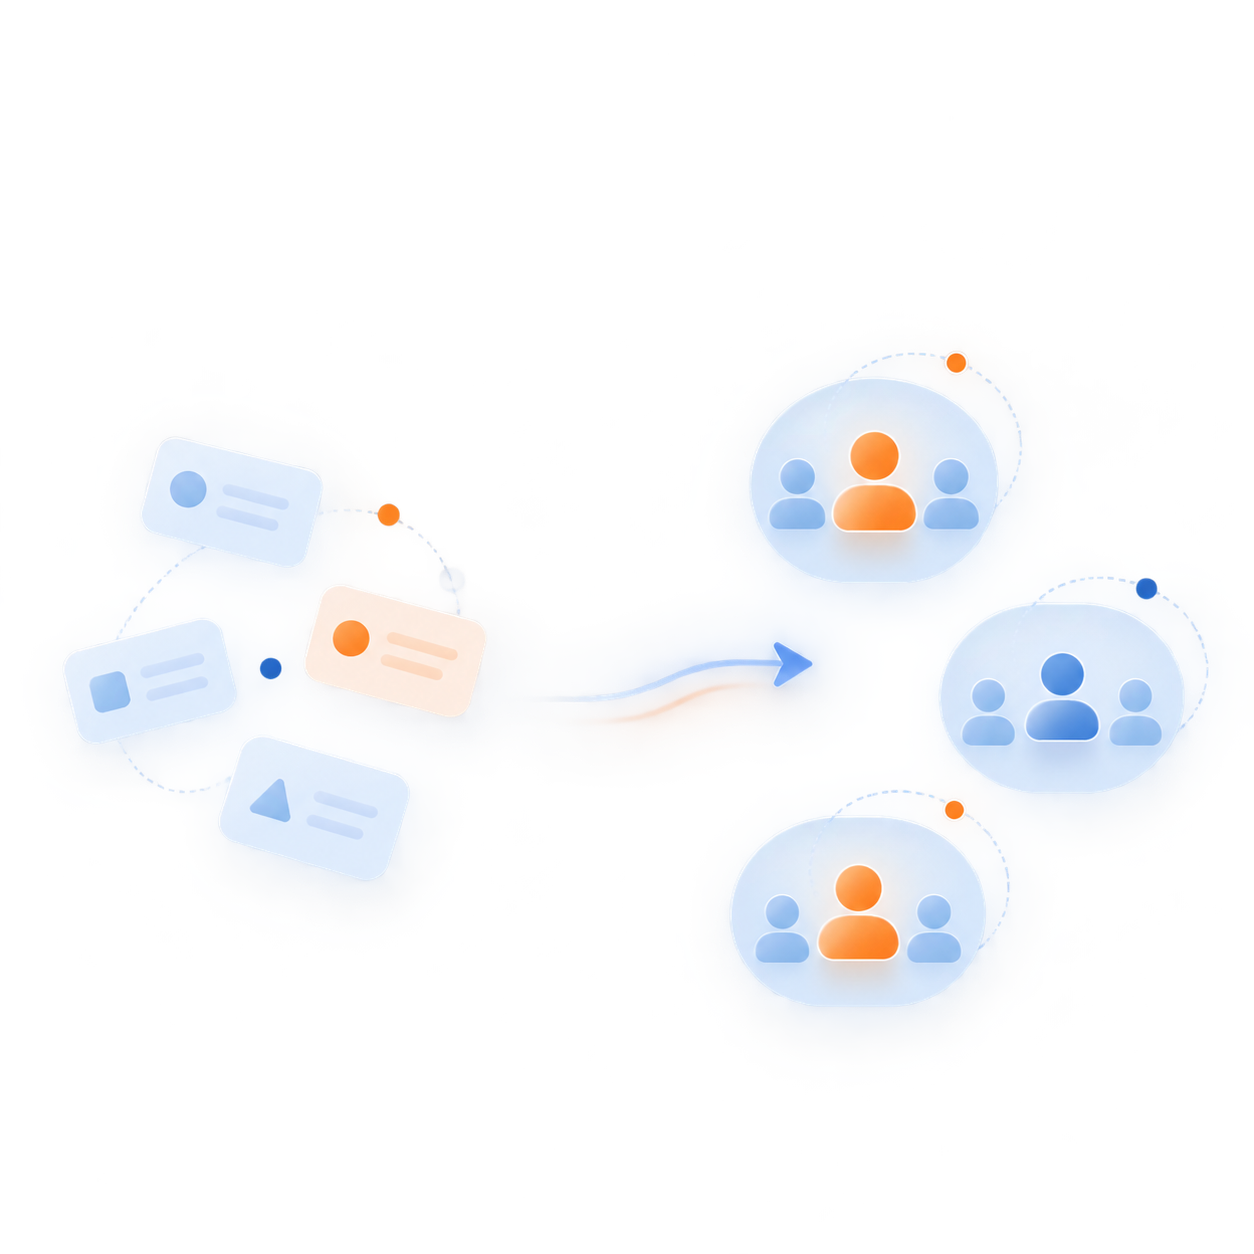
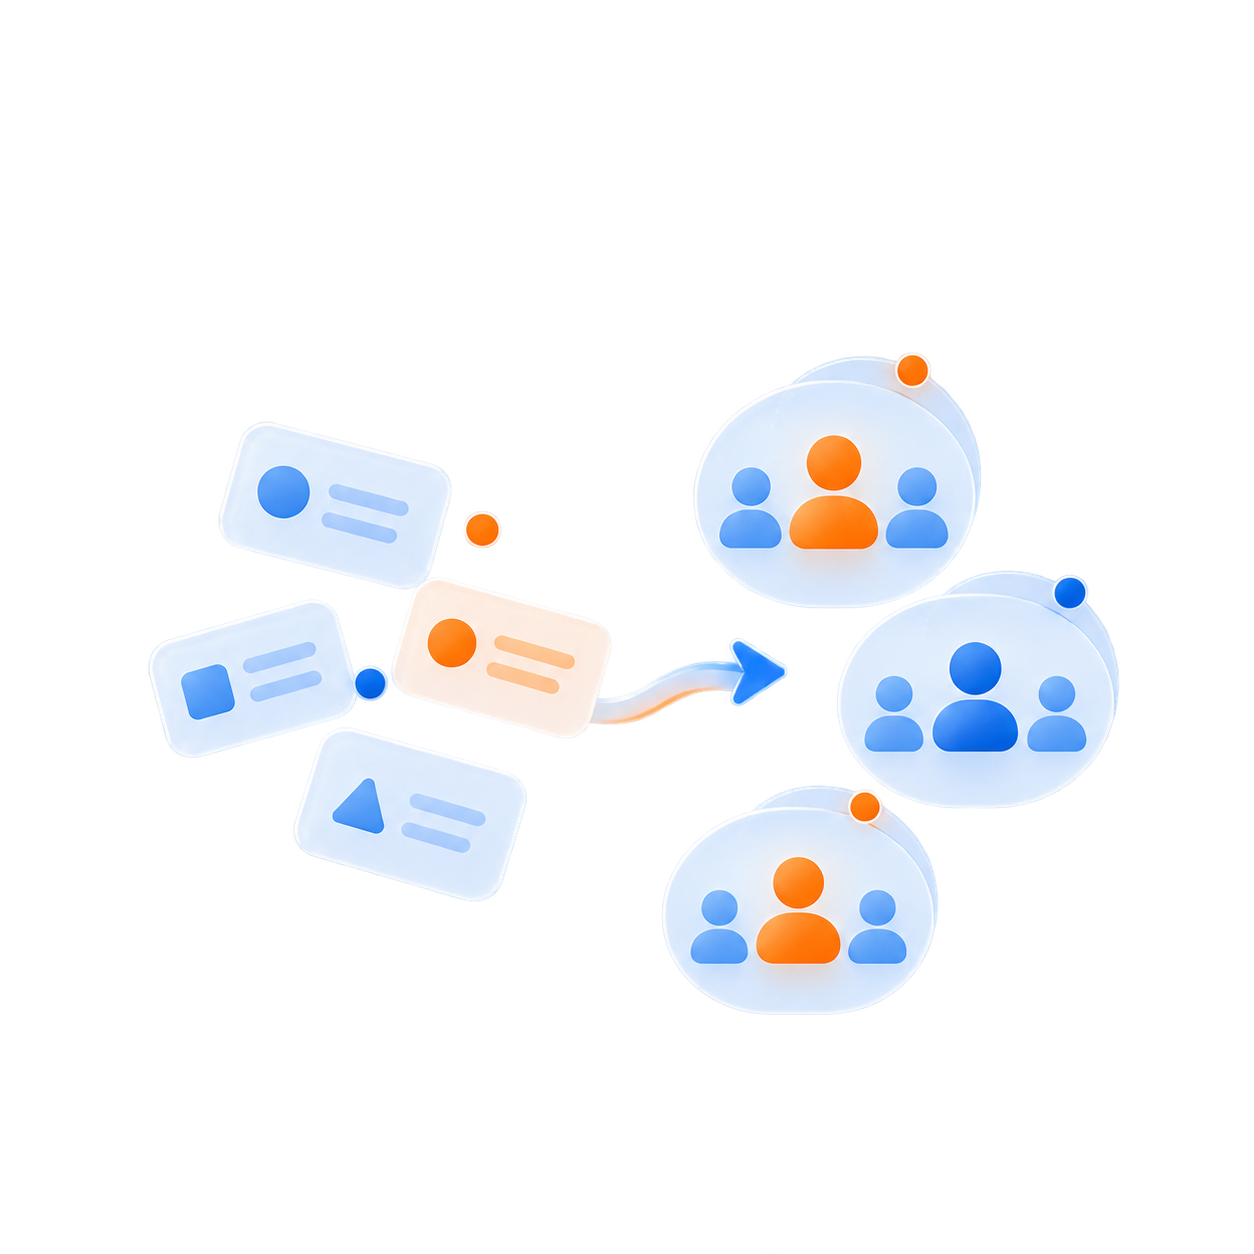
feat: add bilingual product organisation case

Changed region(s): [[0.0311, 0.2799, 0.9641, 0.8086]]

diff --git a/src/i18n/routes.ts b/src/i18n/routes.ts
@@ -13,6 +13,7 @@ export const coreRoutePairs: RoutePair[] = [
   { de: "/leadership", en: "/en/leadership" },
   { de: "/track-record", en: "/en/track-record" },
   { de: "/performance-marketing-steering", en: "/en/performance-marketing-steering" },
+  { de: "/transformation/product-organisation", en: "/en/transformation/product-organisation" },
   { de: "/agentic-ai", en: "/en/agentic-ai" },
   {
     de: "/agentic-ai/awareness-war-nie-der-engpass",
